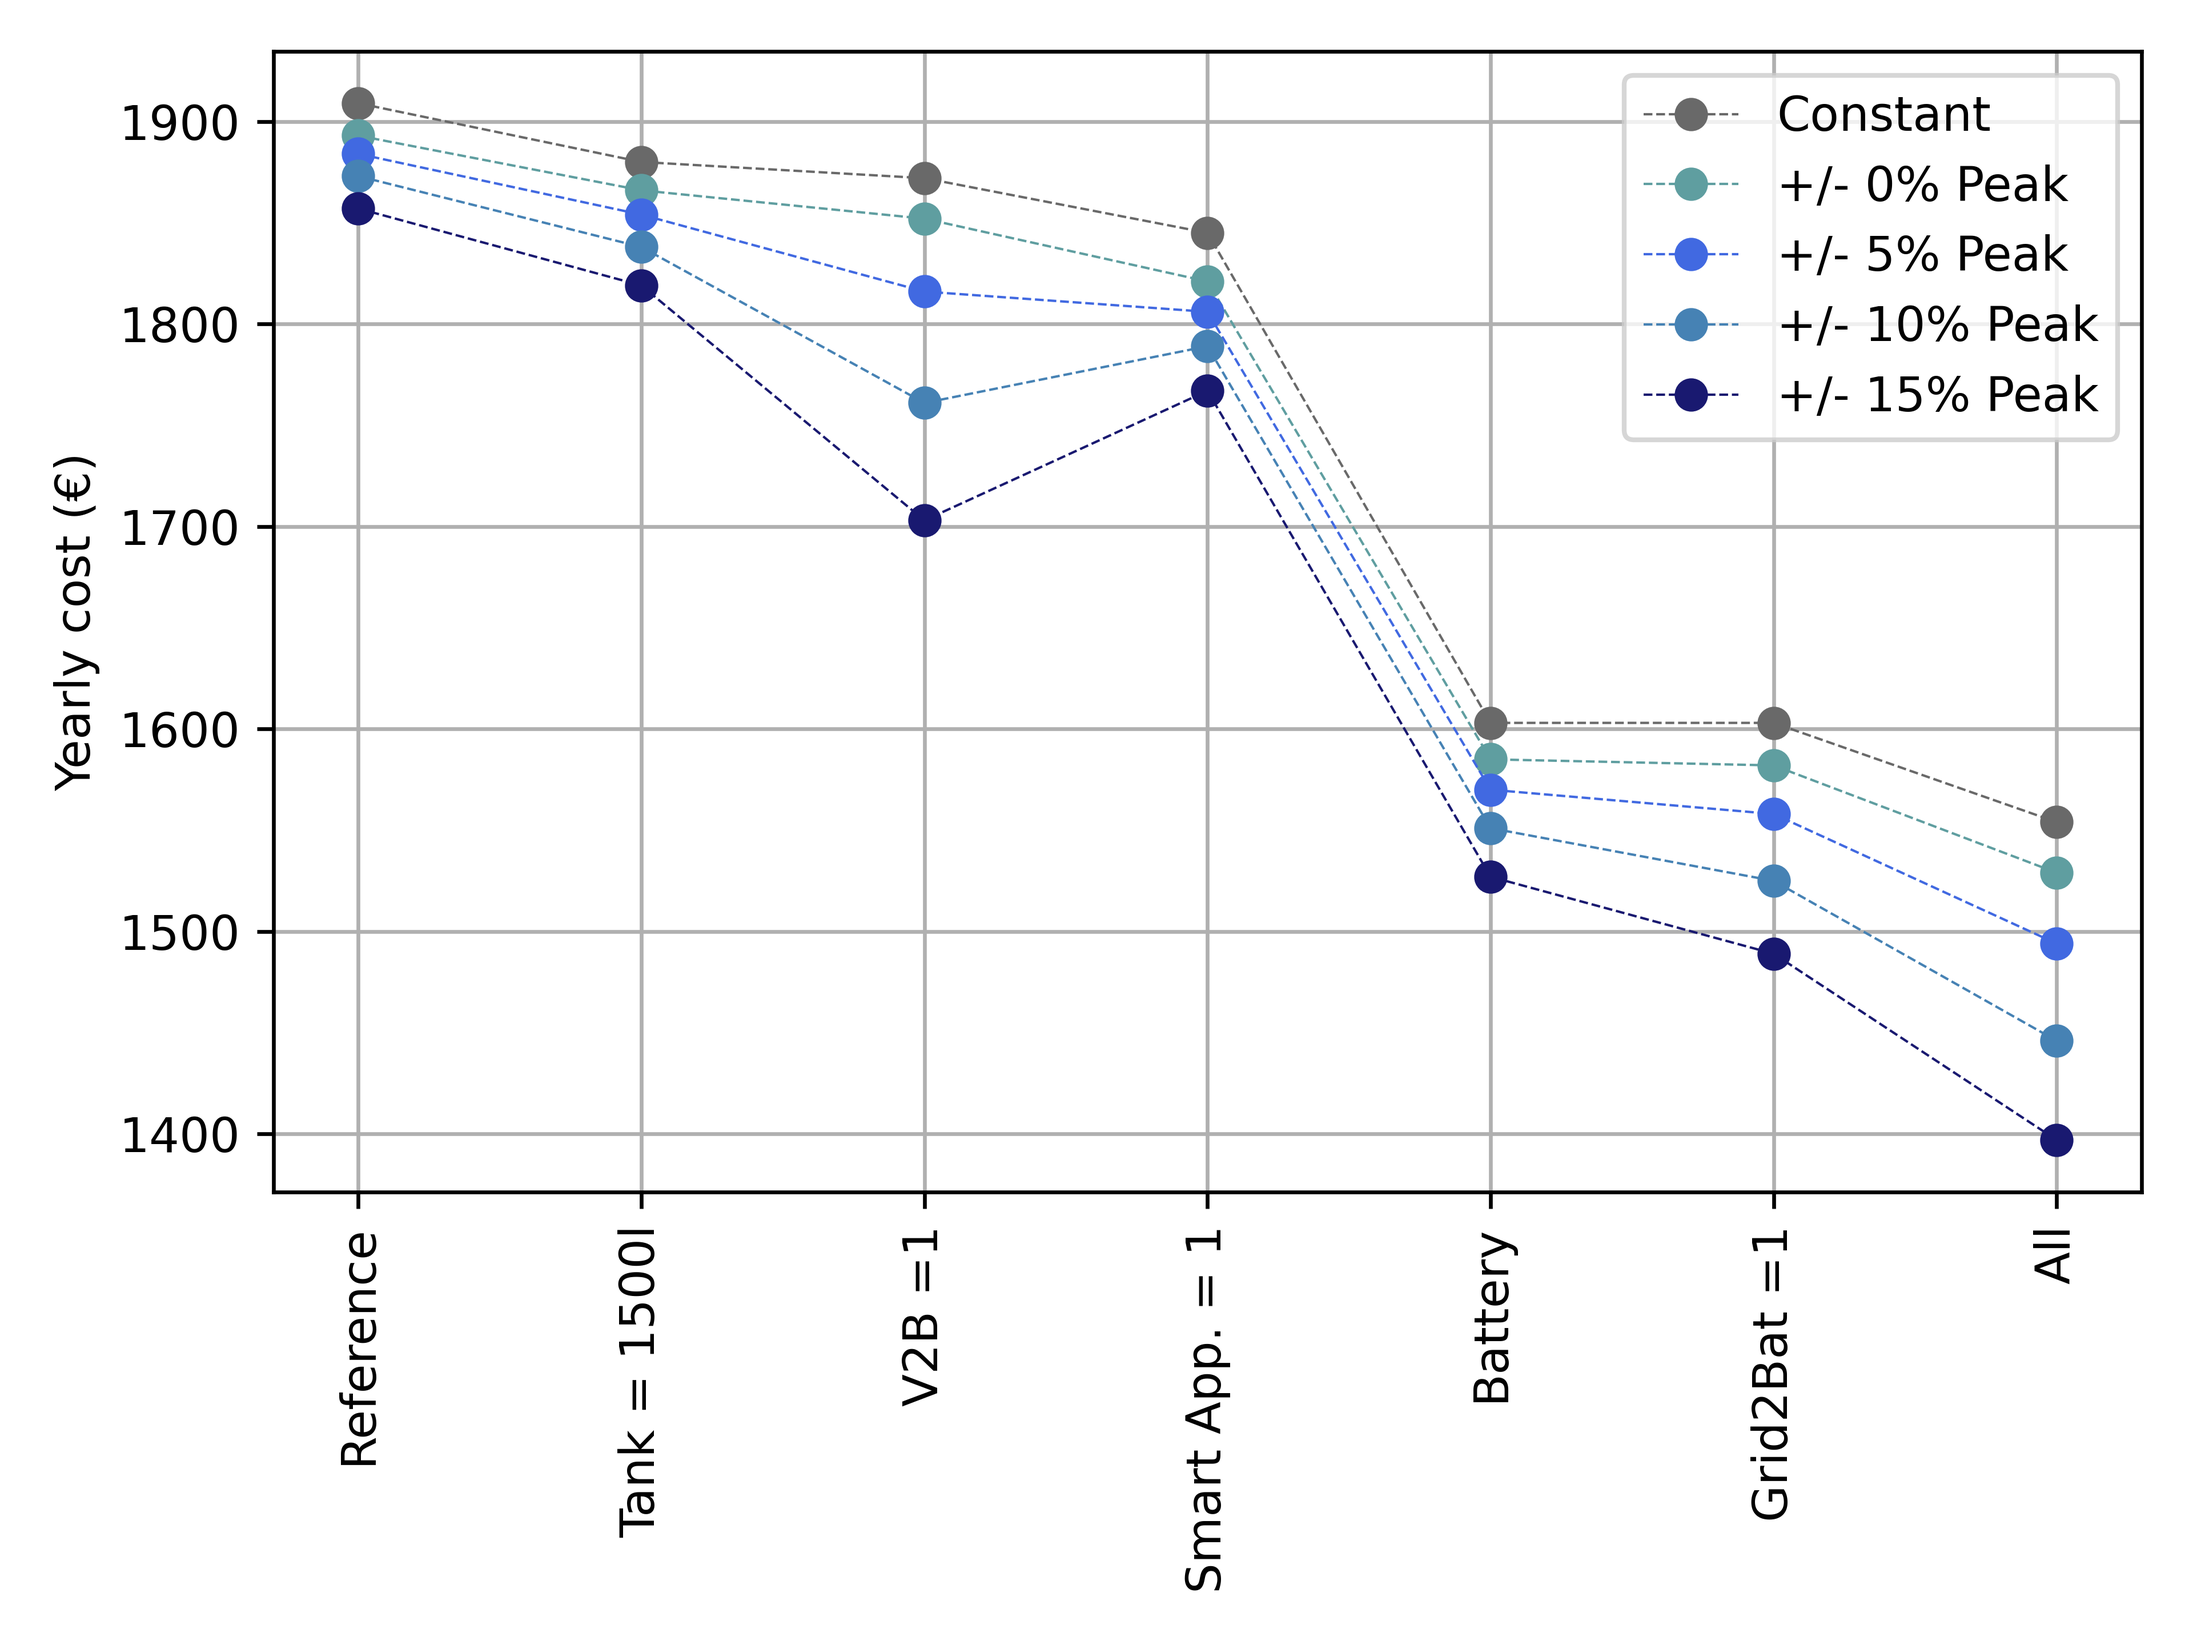
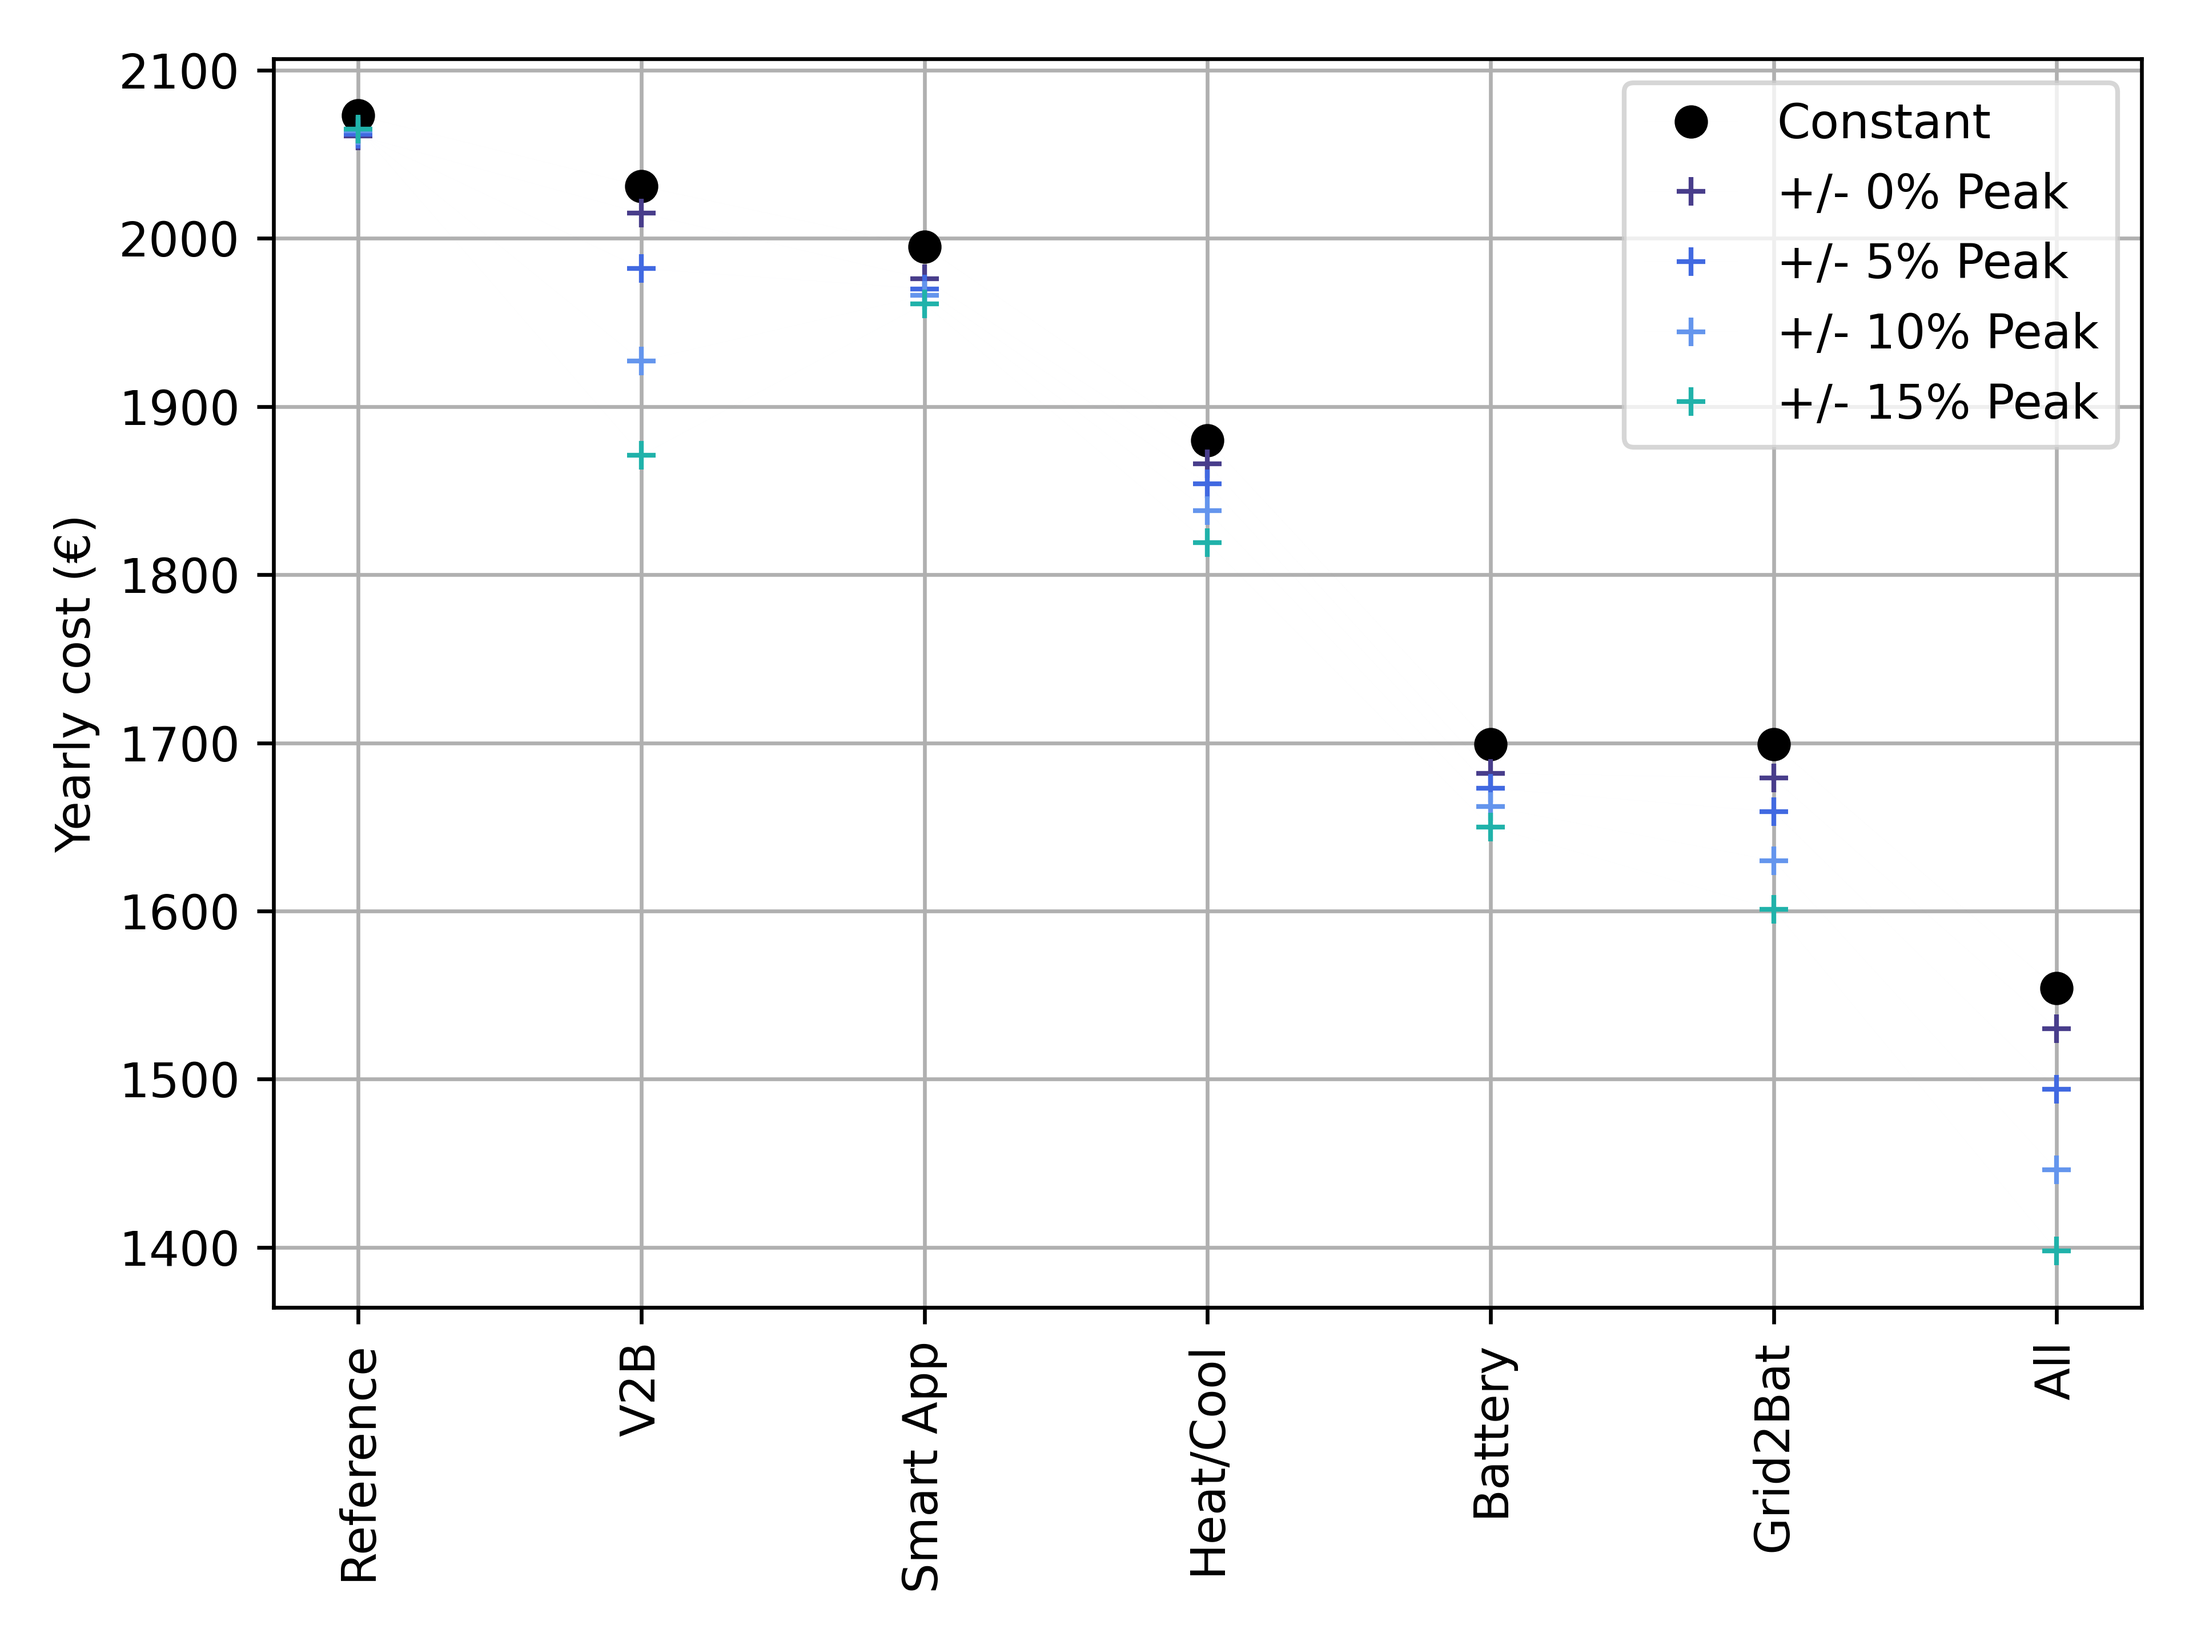
Vizualization of optimization potential for each part

diff --git a/C_Model_Operation/heatmap.py b/C_Model_Operation/heatmap.py
@@ -99,32 +99,103 @@ import numpy as np
 #             facecolor='w', edgecolor='w')
 # plt.show()
 
-# constant price and RTP
+# # constant price and RTP
+#
+# # Data for plotting
+# plt.figure(figsize=(20, 5))
+# x = ['Reference', 'V2B', 'Smart App', 'Heat/Cool', 'Battery', 'Grid2Bat', 'All']
+#
+# ConstantPrice = [2073,2031,1995,1880,1699,1699,1554]
+# Peak0 = [2061,2015,1976,1866,1682,1679,1530]
+# Peak5 = [2062,1982,1970,1854,1673,1659,1494]
+# Peak10= [2064,1927,1966,1838,1662,1630,1446]
+# Peak15 = [2065,1871,1961,1819,1650,1601,1398]
+#
+# fig, ax = plt.subplots()
+# ax.plot(x,ConstantPrice, marker='o', linestyle='--', label ='Constant', color = 'black', linewidth =0.001)
+# ax.plot(x, Peak0, marker='+', linestyle='--', label = '+/- 0% Peak', color = 'darkslateblue', linewidth =0.001)
+# ax.plot(x, Peak5, marker='+', linestyle='--', label = '+/- 5% Peak', color = 'royalblue', linewidth =0.001)
+# ax.plot(x, Peak10, marker='+', linestyle='--', label = '+/- 10% Peak', color = 'cornflowerblue', linewidth =0.001)
+# ax.plot(x, Peak15, marker='+', linestyle='--', label = '+/- 15% Peak', color = 'lightseagreen', linewidth =0.001)
+# plt.xticks(rotation=90)
+#
+# ax.set(ylabel='Yearly cost (€)')
+# ax.grid()
+#
+# plt.tight_layout();
+# plt.legend(loc='upper right')
+# plt.savefig('Constant_RTP_Pricing', dpi=600, format=None,
+#             transparent=False, bbox_inches=None, pad_inches=0.1, metadata=None,
+#             facecolor='w', edgecolor='w')
+# plt.show()
 
-# Data for plotting
-plt.figure(figsize=(20, 5))
-x = ['Reference', 'Tank = 1500l', 'V2B =1', 'Smart App. = 1', 'Battery', 'Grid2Bat =1', 'All']
 
-ConstantPrice = [1909,1880,1872,1845,1603,1603,1554]
-Peak0 = [1893,1866,1852,1821,1585,1582,1529]
-Peak5 = [1884,1854,1816,1806,1570,1558,1494]
-Peak10= [1873,1838,1761,1789,1551,1525,1446]
-Peak15 = [1857,1819,1703,1767,1527,1489,1397]
 
-fig, ax = plt.subplots()
-ax.plot(x,ConstantPrice, marker='o', linestyle='--', label ='Constant', color = 'dimgray', linewidth =0.5)
-ax.plot(x, Peak0, marker='o', linestyle='--', label = '+/- 0% Peak', color = 'cadetblue', linewidth =0.5)
-ax.plot(x, Peak5, marker='o', linestyle='--', label = '+/- 5% Peak', color = 'royalblue', linewidth =0.5)
-ax.plot(x, Peak10, marker='o', linestyle='--', label = '+/- 10% Peak', color = 'steelblue', linewidth =0.5)
-ax.plot(x, Peak15, marker='o', linestyle='--', label = '+/- 15% Peak', color = 'midnightblue', linewidth =0.5)
-plt.xticks(rotation=90)
+############################
 
-ax.set(ylabel='Yearly cost (€)')
-ax.grid()
+
+### Savings of Optimization no EV
+orders = np.array([[657,413,336,82,0],
+                   [585,426,261,85,0],
+                   [526,422,210,89,0]])
+
+
+plt.figure(figsize=(8, 3))
+xlabels = ['All', 'Battery', 'Heat/Cool', 'Smart App', 'Reference']
+ylabels = ['AG1', 'AG2', 'AG3']
+
+sns.heatmap(orders, xticklabels=xlabels, yticklabels=ylabels, cmap='mako_r', \
+            annot=False, fmt='g', linewidth=0.75, linecolor='white',
+            cbar_kws={'label': 'Savings in € per year', 'orientation': 'horizontal'})
 
 plt.tight_layout();
-plt.legend(loc='upper right')
-plt.savefig('Constant_RTP_Pricing', dpi=600, format=None,
+
+plt.savefig('Saving potential no EV', dpi=600, format=None,
+            transparent=False, bbox_inches=None, pad_inches=0.1, metadata=None,
+            facecolor='w', edgecolor='w')
+plt.show()
+
+
+### Savings of Optimization with EV
+
+orders = np.array([[622,355,298,70,40,0],
+                   [562,360,228,74,34,0],
+                   [518,374,254,78,41,0]])
+
+
+plt.figure(figsize=(8, 3))
+xlabels = ['All', 'Battery', 'Heat/Cool', 'Smart App', 'V2B', 'Reference']
+ylabels = ['AG1', 'AG2', 'AG3']
+
+sns.heatmap(orders, xticklabels=xlabels, yticklabels=ylabels, cmap='mako_r', \
+            annot=False, fmt='g', linewidth=0.75, linecolor='white',
+            cbar_kws={'label': 'Savings in € per year', 'orientation': 'horizontal'})
+
+plt.tight_layout();
+
+plt.savefig('Saving potential EV', dpi=600, format=None,
+            transparent=False, bbox_inches=None, pad_inches=0.1, metadata=None,
+            facecolor='w', edgecolor='w')
+plt.show()
+
+### Savings of Optimization with EV and RTP
+
+orders = np.array([[841,632,475,409,328,258,99,0],
+                   [761,570,471,410,285,227,102,0],
+                   [667,511,464,415,245,194,104,0]])
+
+
+plt.figure(figsize=(8, 3))
+xlabels = ['All', '(All no RTP)', 'Grid2Bat' ,'Battery', 'Heat/Cool', 'V2B', 'Smart App', 'Reference']
+ylabels = ['AG1', 'AG2', 'AG3']
+
+sns.heatmap(orders, xticklabels=xlabels, yticklabels=ylabels, cmap='mako_r', \
+            annot=False, fmt='g', linewidth=0.75, linecolor='white',
+            cbar_kws={'label': 'Savings in € per year', 'orientation': 'horizontal'})
+
+plt.tight_layout();
+
+plt.savefig('Saving potential EV with RTP', dpi=600, format=None,
             transparent=False, bbox_inches=None, pad_inches=0.1, metadata=None,
             facecolor='w', edgecolor='w')
 plt.show()

diff --git a/run_Operation.py b/run_Operation.py
@@ -6,8 +6,8 @@ from C_Model_Operation.C3_TableGenerator import TableGenerator
 
 
 #from C_Model_Operation.C4_RQ2_Reference_OperationOptimization import OperationOptimization
-#from C_Model_Operation.C4_RQ3_Battery_and_Optimization import OperationOptimization
-from C_Model_Operation.C4_RQ4_OperationOptimization_EV import OperationOptimization
+from C_Model_Operation.C4_RQ3_Battery_and_Optimization import OperationOptimization
+#from C_Model_Operation.C4_RQ4_OperationOptimization_EV import OperationOptimization
 
 #from C_Model_Operation.C4_OperationOptimization import OperationOptimization
 
@@ -19,7 +19,7 @@ if __name__ == "__main__":
     CONN = DB().create_Connection(CONS().RootDB)
     #TableGenerator(CONN).run()
     #OperationOptimization(CONN).run()
-    Visualization(CONN).run()
+    #Visualization(CONN).run()
 
 
 

diff --git a/C_Model_Operation/C3_TableGenerator.py b/C_Model_Operation/C3_TableGenerator.py
@@ -491,7 +491,7 @@ class TableGenerator:
 
     def run(self):
         #
-        # self.gen_OBJ_ID_Building()
+        #self.gen_OBJ_ID_Building()
         #self.gen_OBJ_ID_ApplianceGroup()
         #self.gen_OBJ_ID_SpaceHeating()
         # self.gen_OBJ_ID_SpaceCooling()
@@ -499,7 +499,7 @@ class TableGenerator:
         #self.gen_OBJ_ID_PV()
         #self.gen_OBJ_ID_Battery()
         #self.gen_OBJ_ID_ElectricVehicle()
-        self.gen_OBJ_ID_Household()
+        #self.gen_OBJ_ID_Household()
 
         # self.gen_Sce_Demand_DishWasherHours()
         # self.gen_Sce_Demand_WashingMachineHours()

diff --git a/C_Model_Operation/C4_RQ3_Battery_and_Optimization.py b/C_Model_Operation/C4_RQ3_Battery_and_Optimization.py
@@ -655,8 +655,8 @@ class OperationOptimization:
 
     def run(self):
         DC = DataCollector(self.Conn)
-        for household_RowID in range(0, 48):
-            for environment_RowID in range(0, 1):
+        for household_RowID in range(0, 3):
+            for environment_RowID in range(1,2):
                 Household, Environment, PyomoModelInstance = self.run_Optimization(household_RowID, environment_RowID)
                 DC.collect_OptimizationResult(Household, Environment, PyomoModelInstance)
         DC.save_OptimizationResult()

diff --git a/C_Model_Operation/C4_RQ2_Reference_OperationOptimization.py b/C_Model_Operation/C4_RQ2_Reference_OperationOptimization.py
@@ -690,8 +690,8 @@ class OperationOptimization:
 
     def run(self):
         DC = DataCollector(self.Conn)
-        for household_RowID in range(0, 6):
-            for environment_RowID in range(0, 1):
+        for household_RowID in range(0, 3):
+            for environment_RowID in range(1,2):
                 Household, Environment, PyomoModelInstance = self.run_Optimization(household_RowID, environment_RowID)
                 DC.collect_OptimizationResult(Household, Environment, PyomoModelInstance)
         DC.save_OptimizationResult()

diff --git a/C_Model_Operation/C4_RQ4_OperationOptimization_EV.py b/C_Model_Operation/C4_RQ4_OperationOptimization_EV.py
@@ -655,8 +655,8 @@ class OperationOptimization:
 
     def run(self):
         DC = DataCollector(self.Conn)
-        for household_RowID in range(0, 7):
-            for environment_RowID in range(0,1):
+        for household_RowID in range(0, 1):
+            for environment_RowID in range(1,2):
                 Household, Environment, PyomoModelInstance = self.run_Optimization(household_RowID, environment_RowID)
                 DC.collect_OptimizationResult(Household, Environment, PyomoModelInstance)
         DC.save_OptimizationResult()
